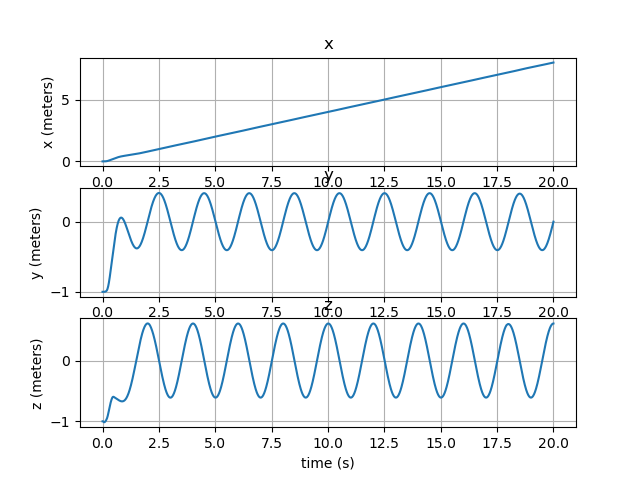
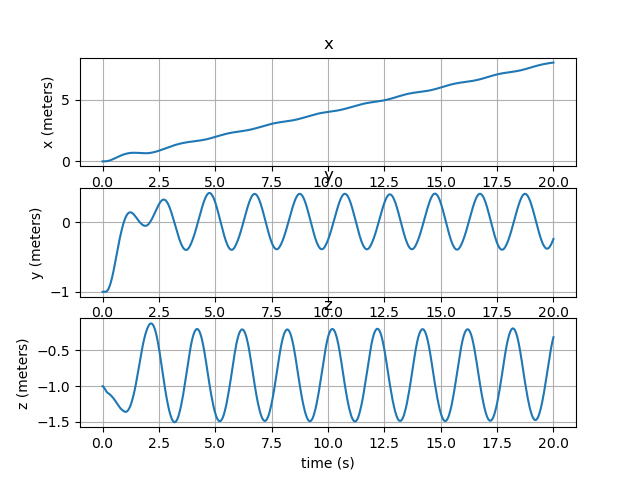
Added masses

diff --git a/MotorRotorAnalysis.py b/MotorRotorAnalysis.py
@@ -72,26 +72,26 @@ currents[19,:] = np.array([1.7,11.18,13.69,16.85,19.96,23.09,26.93,30.77,34.76,3
 
 
 
-motor_dict={0  : {"RPM" : rpms[0,:],  "RPS" : rpms[0,:]/60,  "C_T": 0.00005493,  "A" : currents[0,:],   "W" : powers[0,:],   "name": "TMOTOR B T5143S"                  }, 
-            1  : {"RPM" : rpms[1,:],  "RPS" : rpms[1,:]/60,  "C_T": 0.00006688,  "A" : currents[1,:],   "W" : powers[1,:],   "name": "TMOTOR B T5146"                   }, 
-            2  : {"RPM" : rpms[2,:],  "RPS" : rpms[2,:]/60,  "C_T": 0.00006680,  "A" : currents[2,:],   "W" : powers[2,:],   "name" : "TMOTOR B T5147"                  }, 
-            3  : {"RPM" : rpms[3,:],  "RPS" : rpms[3,:]/60,  "C_T": 0.00001685,  "A" : currents[3,:],   "W" : powers[3,:],   "name": "TMOTOR 1404 HQ3520-3"             }, 
-            4  : {"RPM" : rpms[4,:],  "RPS" : rpms[4,:]/60,  "C_T": 0.00002120,  "A" : currents[4,:],   "W" : powers[4,:],   "name": "TMOTOR 1404 GF4024-2"             }, 
-            5  : {"RPM" : rpms[5,:],  "RPS" : rpms[5,:]/60,  "C_T": 0.00001094,  "A" : currents[5,:],   "W" : powers[5,:],   "name": "TMOTOR 1404 GF3028-3"             }, 
-            6  : {"RPM" : rpms[6,:],  "RPS" : rpms[6,:]/60,  "C_T": 0.000008343, "A" : currents[6,:],   "W" : powers[6,:],   "name": "TMOTOR F1507 GF3035"              }, 
-            7  : {"RPM" : rpms[7,:],  "RPS" : rpms[7,:]/60,  "C_T": 0.000013352, "A" : currents[7,:],   "W" : powers[7,:],   "name": "TMOTOR F1507 GF3052"              }, 
-            8  : {"RPM" : rpms[8,:],  "RPS" : rpms[8,:]/60,  "C_T": 0.000013699, "A" : currents[8,:],   "W" : powers[8,:],   "name": "TMOTOR F1507 T3140"               }, 
-            9  : {"RPM" : rpms[9,:],  "RPS" : rpms[9,:]/60,  "C_T": 0.000018498, "A" : currents[9,:],   "W" : powers[9,:],   "name": "TMOTOR F2203.5 GEMFAN D76 6S"     }, 
-            10 : {"RPM" : rpms[10,:], "RPS" : rpms[10,:]/60, "C_T": 0.000018590, "A" : currents[10,:],  "W" : powers[10,:],  "name": "TMOTOR F2203.5 GEMFAN 4023 6S"    }, 
-            11 : {"RPM" : rpms[11,:], "RPS" : rpms[11,:]/60, "C_T": 0.000031472, "A" : currents[11,:],  "W" : powers[11,:],  "name": "TMOTOR F2203.5 GEMFAN 5125 6S"    }, 
-            12 : {"RPM" : rpms[12,:], "RPS" : rpms[12,:]/60, "C_T": 0.000018709, "A" : currents[12,:],  "W" : powers[12,:],  "name": "TMOTOR F2004 GF4023"              }, 
-            13 : {"RPM" : rpms[13,:], "RPS" : rpms[13,:]/60, "C_T": 0.000032120, "A" : currents[13,:],  "W" : powers[13,:],  "name": "TMOTOR F2004 GT5125"              }, 
-            14 : {"RPM" : rpms[14,:], "RPS" : rpms[14,:]/60, "C_T": 0.000035651, "A" : currents[14,:],  "W" : powers[14,:],  "name": "TMOTOR F2004 T4944"               }, 
-            15 : {"RPM" : rpms[15,:], "RPS" : rpms[15,:]/60, "C_T": 0.00020577,  "A" : currents[15,:],  "W" : powers[15,:],  "name": "TMOTOR F90 HQ70403"               }, 
-            16 : {"RPM" : rpms[16,:], "RPS" : rpms[16,:]/60, "C_T": 0.00021089,  "A" : currents[16,:],  "W" : powers[16,:],  "name": "TMOTOR F90 GF7042"                }, 
-            17 : {"RPM" : rpms[17,:], "RPS" : rpms[17,:]/60, "C_T": 0.00010278,  "A" : currents[17,:],  "W" : powers[17,:],  "name": "TMOTOR F90 T6143"                 }, 
-            18 : {"RPM" : rpms[18,:], "RPS" : rpms[18,:]/60, "C_T": 0.000070170, "A" : currents[18,:],  "W" : powers[18,:],  "name": "TMOTOR F80 Pro 5055 Triblade"     }, 
-            19 : {"RPM" : rpms[19,:], "RPS" : rpms[19,:]/60, "C_T": 0.000073960, "A" : currents[19,:],  "W" : powers[19,:],  "name": "TMOTOR F80 Pro 6040 2-blade"      }, 
+motor_dict={0  : {"mass" : 0.032 + 0.0041, "RPM" : rpms[0,:],  "RPS" : rpms[0,:]/60,  "C_T": 0.00005493,  "A" : currents[0,:],   "W" : powers[0,:],   "name": "TMOTOR B T5143S"                  }, 
+            1  : {"mass" : 0.032 + 0.005, "RPM" : rpms[1,:],  "RPS" : rpms[1,:]/60,  "C_T": 0.00006688,  "A" : currents[1,:],   "W" : powers[1,:],   "name": "TMOTOR B T5146"                   }, 
+            2  : {"mass" : 0.032 + 0.0044, "RPM" : rpms[2,:],  "RPS" : rpms[2,:]/60,  "C_T": 0.00006680,  "A" : currents[2,:],   "W" : powers[2,:],   "name" : "TMOTOR B T5147"                  }, 
+            3  : {"mass" : 0.00934 + 0.0015, "RPM" : rpms[3,:],  "RPS" : rpms[3,:]/60,  "C_T": 0.00001685,  "A" : currents[3,:],   "W" : powers[3,:],   "name": "TMOTOR 1404 HQ3520-3"             }, 
+            4  : {"mass" : 0.00934 + 0.00316, "RPM" : rpms[4,:],  "RPS" : rpms[4,:]/60,  "C_T": 0.00002120,  "A" : currents[4,:],   "W" : powers[4,:],   "name": "TMOTOR 1404 GF4024-2"             }, 
+            5  : {"mass" : 0.00934 + 0.00149, "RPM" : rpms[5,:],  "RPS" : rpms[5,:]/60,  "C_T": 0.00001094,  "A" : currents[5,:],   "W" : powers[5,:],   "name": "TMOTOR 1404 GF3028-3"             }, 
+            6  : {"mass" : 0.0153 + 0.0012, "RPM" : rpms[6,:],  "RPS" : rpms[6,:]/60,  "C_T": 0.000008343, "A" : currents[6,:],   "W" : powers[6,:],   "name": "TMOTOR F1507 GF3035"              }, 
+            7  : {"mass" : 0.0153 + 0.00135, "RPM" : rpms[7,:],  "RPS" : rpms[7,:]/60,  "C_T": 0.000013352, "A" : currents[7,:],   "W" : powers[7,:],   "name": "TMOTOR F1507 GF3052"              }, 
+            8  : {"mass" : 0.0153 + 0.002, "RPM" : rpms[8,:],  "RPS" : rpms[8,:]/60,  "C_T": 0.000013699, "A" : currents[8,:],   "W" : powers[8,:],   "name": "TMOTOR F1507 T3140"               }, 
+            9  : {"mass" : 0.019 + 0.003, "RPM" : rpms[9,:],  "RPS" : rpms[9,:]/60,  "C_T": 0.000018498, "A" : currents[9,:],   "W" : powers[9,:],   "name": "TMOTOR F2203.5 GEMFAN D76 6S"     }, 
+            10 : {"mass" : 0.019 + 0.00198, "RPM" : rpms[10,:], "RPS" : rpms[10,:]/60, "C_T": 0.000018590, "A" : currents[10,:],  "W" : powers[10,:],  "name": "TMOTOR F2203.5 GEMFAN 4023 6S"    }, 
+            11 : {"mass" : 0.019 + 0.0028, "RPM" : rpms[11,:], "RPS" : rpms[11,:]/60, "C_T": 0.000031472, "A" : currents[11,:],  "W" : powers[11,:],  "name": "TMOTOR F2203.5 GEMFAN 5125 6S"    }, 
+            12 : {"mass" : 0.017 + 0.00198, "RPM" : rpms[12,:], "RPS" : rpms[12,:]/60, "C_T": 0.000018709, "A" : currents[12,:],  "W" : powers[12,:],  "name": "TMOTOR F2004 GF4023"              }, 
+            13 : {"mass" : 0.017 + 0.0028, "RPM" : rpms[13,:], "RPS" : rpms[13,:]/60, "C_T": 0.000032120, "A" : currents[13,:],  "W" : powers[13,:],  "name": "TMOTOR F2004 GT5125"              }, 
+            14 : {"mass" : 0.017 + 0.00359, "RPM" : rpms[14,:], "RPS" : rpms[14,:]/60, "C_T": 0.000035651, "A" : currents[14,:],  "W" : powers[14,:],  "name": "TMOTOR F2004 T4944"               }, 
+            15 : {"mass" : 0.0467 + 0.0097, "RPM" : rpms[15,:], "RPS" : rpms[15,:]/60, "C_T": 0.00020577,  "A" : currents[15,:],  "W" : powers[15,:],  "name": "TMOTOR F90 HQ70403"               }, 
+            16 : {"mass" : 0.0467 + 0.00548, "RPM" : rpms[16,:], "RPS" : rpms[16,:]/60, "C_T": 0.00021089,  "A" : currents[16,:],  "W" : powers[16,:],  "name": "TMOTOR F90 GF7042"                }, 
+            17 : {"mass" : 0.0467 + 0.0065, "RPM" : rpms[17,:], "RPS" : rpms[17,:]/60, "C_T": 0.00010278,  "A" : currents[17,:],  "W" : powers[17,:],  "name": "TMOTOR F90 T6143"                 }, 
+            18 : {"mass" : 0.040 + 0.0049, "RPM" : rpms[18,:], "RPS" : rpms[18,:]/60, "C_T": 0.000070170, "A" : currents[18,:],  "W" : powers[18,:],  "name": "TMOTOR F80 Pro 5055 Triblade"     }, 
+            19 : {"mass" : 0.040 + 0.0041, "RPM" : rpms[19,:], "RPS" : rpms[19,:]/60, "C_T": 0.000073960, "A" : currents[19,:],  "W" : powers[19,:],  "name": "TMOTOR F80 Pro 6040 2-blade"      }, 
             }
 
 def main():

diff --git a/main.py b/main.py
@@ -8,7 +8,7 @@ import plotting as plt
 #Physical Constants
 g = 9.81
 m_centroid = 0.8
-m_rotor = 0.15
+m_rotor = 0.0 #accounted for
 m_IMU = 0.05
 m_dep_cam = 0.1
 m_total = m_centroid + m_rotor*8 + m_IMU + m_dep_cam
@@ -65,15 +65,16 @@ def main():
     rotors.append(mrd.Rotor(m_rotor,np.array([0,0,0],dtype=float),np.array([0,d,0],dtype=float),-20,1,0))
     rotors.append(mrd.Rotor(m_rotor,np.array([0,0,0],dtype=float),np.array([-d,0,0],dtype=float),20,-1,0))
     rotors.append(mrd.Rotor(m_rotor,np.array([0,0,0],dtype=float),np.array([0,-d,0],dtype=float),-20,1,0))
-
-    # rotors.append(mrd.Rotor(m_rotor,np.array([0,0,-np.pi/32],dtype=float),np.array([d,0,0],dtype=float),20,-1,5))
-    # rotors.append(mrd.Rotor(m_rotor,np.array([0,np.pi/32,0],dtype=float),np.array([0,d,0],dtype=float),-20,1,5))
-    # rotors.append(mrd.Rotor(m_rotor,np.array([0,0,np.pi/32],dtype=float),np.array([-d,0,0],dtype=float),20,-1,5))
-    # rotors.append(mrd.Rotor(m_rotor,np.array([0,-np.pi/32,0],dtype=float),np.array([0,-d,0],dtype=float),-20,1,5))
-    # rotors.append(mrd.Rotor(m_rotor,np.array([0,0,np.pi/3],dtype=float),np.array([d/np.sqrt(2),d/np.sqrt(2),0],dtype=float),20,-1,5))
-    # rotors.append(mrd.Rotor(m_rotor,np.array([0,0,0],dtype=float),np.array([-d/np.sqrt(2),-d/np.sqrt(2),0],dtype=float),-20,1,5))
-    # rotors.append(mrd.Rotor(m_rotor,np.array([0,0,np.pi/2],dtype=float),np.array([-d/np.sqrt(2),d/np.sqrt(2),-0.25],dtype=float),20,-1,5))
-    # rotors.append(mrd.Rotor(m_rotor,np.array([0,0,0],dtype=float),np.array([d/np.sqrt(2),-d/np.sqrt(2),0.25],dtype=float),-20,1,5))
+    
+    #Custom
+    # rotors.append(mrd.Rotor(m_rotor,np.array([0,0,-np.pi/32],dtype=float),np.array([d,0,0],dtype=float),20,-1,16))
+    # rotors.append(mrd.Rotor(m_rotor,np.array([0,np.pi/32,0],dtype=float),np.array([0,d,0],dtype=float),-20,1,16))
+    # rotors.append(mrd.Rotor(m_rotor,np.array([0,0,np.pi/32],dtype=float),np.array([-d,0,0],dtype=float),20,-1,16))
+    # rotors.append(mrd.Rotor(m_rotor,np.array([0,-np.pi/32,0],dtype=float),np.array([0,-d,0],dtype=float),-20,1,16))
+    # rotors.append(mrd.Rotor(m_rotor,np.array([0,0,np.pi/3],dtype=float),np.array([d/np.sqrt(2),d/np.sqrt(2),0],dtype=float),20,-1,16))
+    # rotors.append(mrd.Rotor(m_rotor,np.array([0,0,0],dtype=float),np.array([-d/np.sqrt(2),-d/np.sqrt(2),0],dtype=float),-20,1,16))
+    # rotors.append(mrd.Rotor(m_rotor,np.array([0,0,np.pi/2],dtype=float),np.array([-d/np.sqrt(2),d/np.sqrt(2),-0.25],dtype=float),20,-1,16))
+    # rotors.append(mrd.Rotor(m_rotor,np.array([0,0,0],dtype=float),np.array([d/np.sqrt(2),-d/np.sqrt(2),0.25],dtype=float),-20,1,16))
     Controller = mrd.Controller(k_x,k_v,k_R,k_omega,TrajectoryPlanner, rotors)
     dep_cams.append(mrd.DepthCamera(m_dep_cam, rot_vec=np.array([0,0,0],dtype=float), t_vec=np.array([0,0,d],dtype=float),AoV=AoV,K = K,res = res))
     

diff --git a/MultiRotorDynamics.py b/MultiRotorDynamics.py
@@ -30,6 +30,8 @@ class Limb:
 class Rotor(Limb):
     def __init__(self, m, rot_vec, t_vec, rps, sigma, motor_prop_comb_num):
         super().__init__(m,rot_vec,t_vec)
+        self.m += motor_dict[motor_prop_comb_num]["mass"]
+        print(f"mass {self.m}")
         self.rps = rps #Rotations per second
         self.maxrps = motor_dict[motor_prop_comb_num]["RPS"][11]
         self.sigma = sigma #which way the rotor rotates
